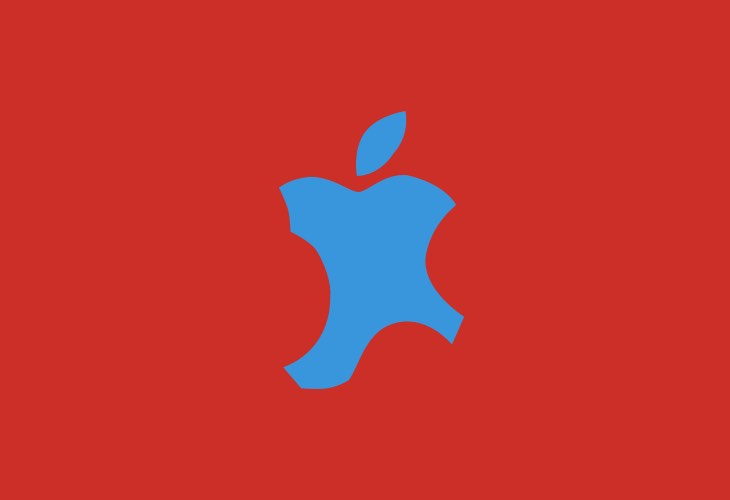
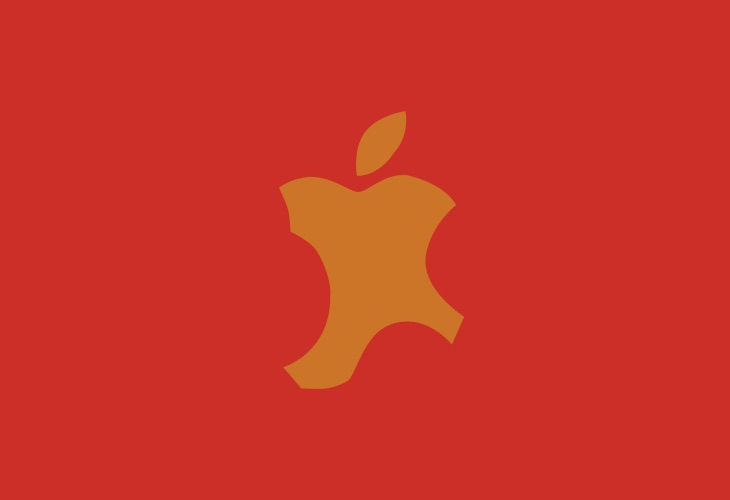
switch colors

Changed region(s): [[0.3616, 0.21, 0.6329, 0.78]]

diff --git a/components/ShowRoomPage/images/jsxIfyedGlassesSVG.js b/components/ShowRoomPage/images/jsxIfyedGlassesSVG.js
@@ -8,13 +8,13 @@ const glassesSvg = () => <svg height="189px" width="259px" version="1.1" viewBox
   <defs/>
   <g id="showRoomGlassesSVG" fill="none" stroke="none" strokeWidth="1">
     <g id="glasses" transform="translate(5.000000, 6.000000)">
-      <path id="Path-1" d="M79.2539062,20.078125 C79.2539062,20.078125 70.4441533,4.82838836 67.8398438,0.3203125 L67.8398438,0.3203125 L51.0742188,7.8359375 L42.3046875,22.6992187 L0.57421875,112.113281" stroke="#3996DD" strokeDasharray="1" strokeLinecap="round" strokeWidth="11"/>
-      <circle id="Oval-1" cx="54.5" cy="128.5" r="48.5" stroke="#3996DD" strokeWidth="11"/>
+      <path id="Path-1" d="M79.2539062,20.078125 C79.2539062,20.078125 70.4441533,4.82838836 67.8398438,0.3203125 L67.8398438,0.3203125 L51.0742188,7.8359375 L42.3046875,22.6992187 L0.57421875,112.113281" stroke="#CC7528" strokeDasharray="1" strokeLinecap="round" strokeWidth="11"/>
+      <circle id="Oval-1" cx="54.5" cy="128.5" r="48.5" stroke="#CC7528" strokeWidth="11"/>
       <path id="Rectangle-1" d="M32.716366,106.526212 C43.4021314,106.526212 54.0878967,117.354337 54.0878967,117.354337 L11.3448353,117.354337 C11.3448353,117.354337 22.0306007,106.526212 32.716366,106.526212 Z" fill="#33485C" transform="translate(32.716366, 111.940275) rotate(-45.000000) translate(-32.716366, -111.940275) "/>
-      <path id="Path-1" d="M248.253906,20.078125 C248.253906,20.078125 239.444153,4.82838836 236.839844,0.3203125 L236.839844,0.3203125 L220.074219,7.8359375 L211.304688,22.6992187 L169.574219,112.113281" stroke="#3996DD" strokeDasharray="1" strokeLinecap="round" strokeWidth="11" transform="translate(208.914062, 56.216797) scale(-1, 1) translate(-208.914062, -56.216797) "/>
-      <circle id="Oval-1" cx="194.5" cy="128.5" r="48.5" stroke="#3996DD" strokeWidth="11"/>
+      <path id="Path-1" d="M248.253906,20.078125 C248.253906,20.078125 239.444153,4.82838836 236.839844,0.3203125 L236.839844,0.3203125 L220.074219,7.8359375 L211.304688,22.6992187 L169.574219,112.113281" stroke="#CC7528" strokeDasharray="1" strokeLinecap="round" strokeWidth="11" transform="translate(208.914062, 56.216797) scale(-1, 1) translate(-208.914062, -56.216797) "/>
+      <circle id="Oval-1" cx="194.5" cy="128.5" r="48.5" stroke="#CC7528" strokeWidth="11"/>
       <path id="Rectangle-1" d="M213.716366,106.526212 C224.402131,106.526212 235.087897,117.354337 235.087897,117.354337 L192.344835,117.354337 C192.344835,117.354337 203.030601,106.526212 213.716366,106.526212 Z" fill="#33485C" transform="translate(213.716366, 111.940275) scale(-1, 1) rotate(-45.000000) translate(-213.716366, -111.940275) "/>
-      <path id="Line" d="M101,143 C101,143 109.311148,123 125.8593,123 C142.407452,123 148,143 148,143" stroke="#3996DD" strokeLinecap="round" strokeWidth="12"/>
+      <path id="Line" d="M101,143 C101,143 109.311148,123 125.8593,123 C142.407452,123 148,143 148,143" stroke="#CC7528" strokeLinecap="round" strokeWidth="12"/>
     </g>
   </g>
 </svg>;

diff --git a/components/AboutPage/style.module.css b/components/AboutPage/style.module.css
@@ -119,13 +119,13 @@
     a {
       color: #CB2F28;
       &:focus, &:hover {
-        color: #3996DD !important;
+        color: #CC7528 !important;
        }
     }
 }
 
 .quoteSymbol {
-    color: #3996DD;
+    color: #CC7528;
     /*font-size: 100px;*/
     font-style: italic;
     margin-top: 20px;
@@ -170,7 +170,7 @@
     0% {
         transform: rotate(2deg) translateY(-3px) scale(1.1);
         font-weight: 500;
-        color: #3996DD;
+        color: #CC7528;
     }
     5% {
         transform: rotate(-1deg);

diff --git a/components/AboutPage/index.js b/components/AboutPage/index.js
@@ -77,7 +77,7 @@ class AboutPage extends React.Component {
     const post = route.page.data
     return (
       <PageWrapper>
-        <PageHeadline color="#3996DD">About me</PageHeadline>
+        <PageHeadline color="#CC7528">About me</PageHeadline>
         <SectionWrapper customStyle={styles.about}>
           <p className={styles.aboutMeIntroductionText}>{post.aboutMeIntroductionText}</p>
           <div className={`${styles.aboutMeMainImage} ${styles.containerAnimated}`}></div>

diff --git a/components/TimelinePage/index.js b/components/TimelinePage/index.js
@@ -16,7 +16,7 @@ class TimelinePage extends React.Component {
 
     return(
       <PageWrapper>
-        <PageHeadline color="#CB2F28">Go</PageHeadline>
+        <PageHeadline color="#CB2F28">Timeline (UNDER CONSTRUCTION)</PageHeadline>
         <SectionWrapper>
           <div className={styles.timeline}>
             <LifeEvent/>

diff --git a/components/Button/style.module.css b/components/Button/style.module.css
@@ -3,7 +3,7 @@
     margin-left: auto;
     margin-right: auto;
     padding: 15px 25px;
-    background-color: #3996DD;
+    background-color: #CC7528;
     color: white;
     text-decoration: none;
     font-weight: 300;

diff --git a/components/SiteNavi/style.css b/components/SiteNavi/style.css
@@ -97,7 +97,7 @@
 }
 
 .avatarName {
-    background-color: #3996DD;
+    background-color: #CC7528;
     color: #fff;
     font-size: 14px;
     padding: 10px 5px;
